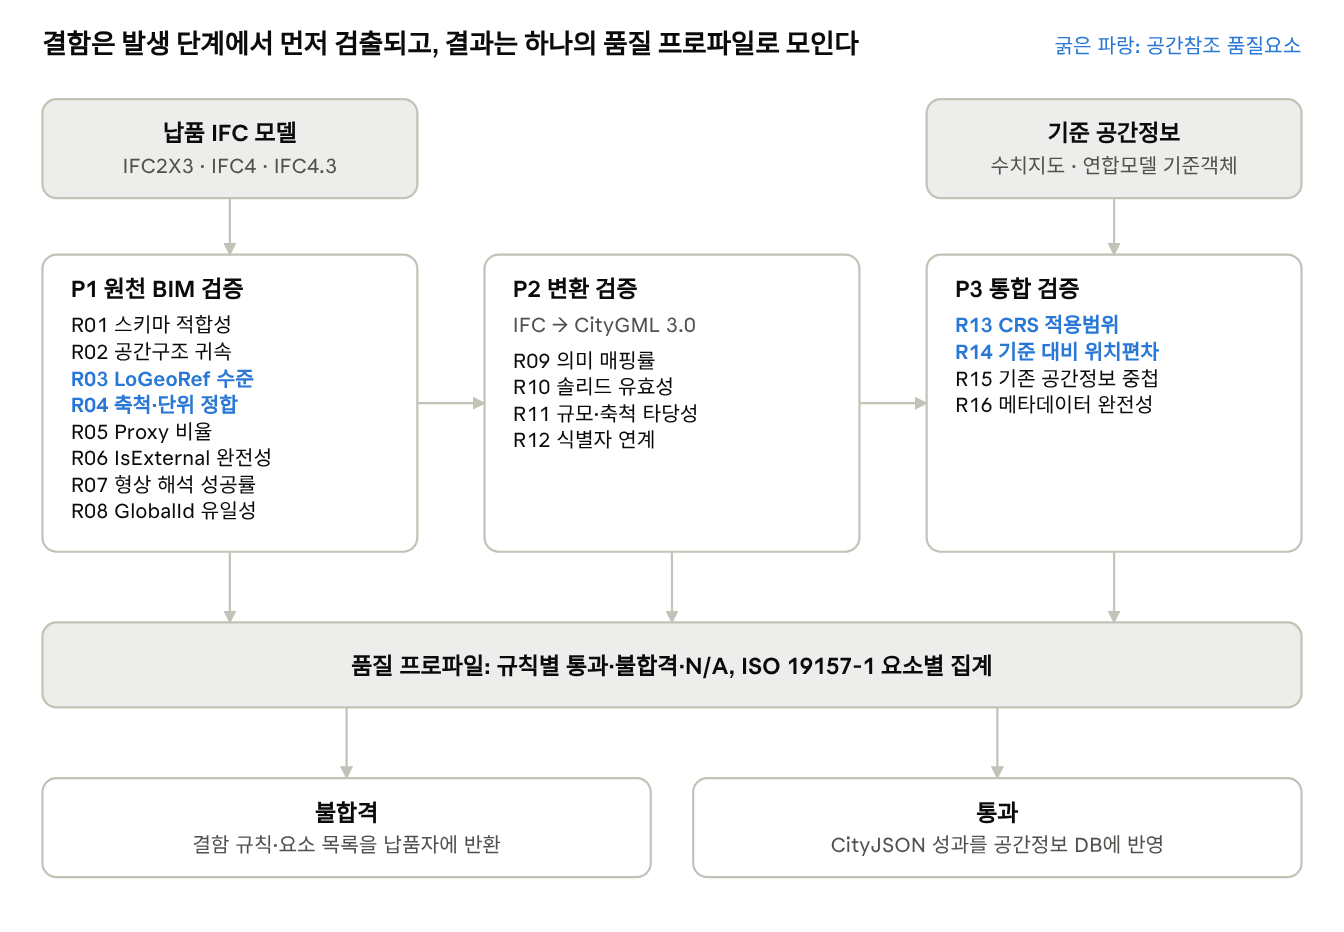
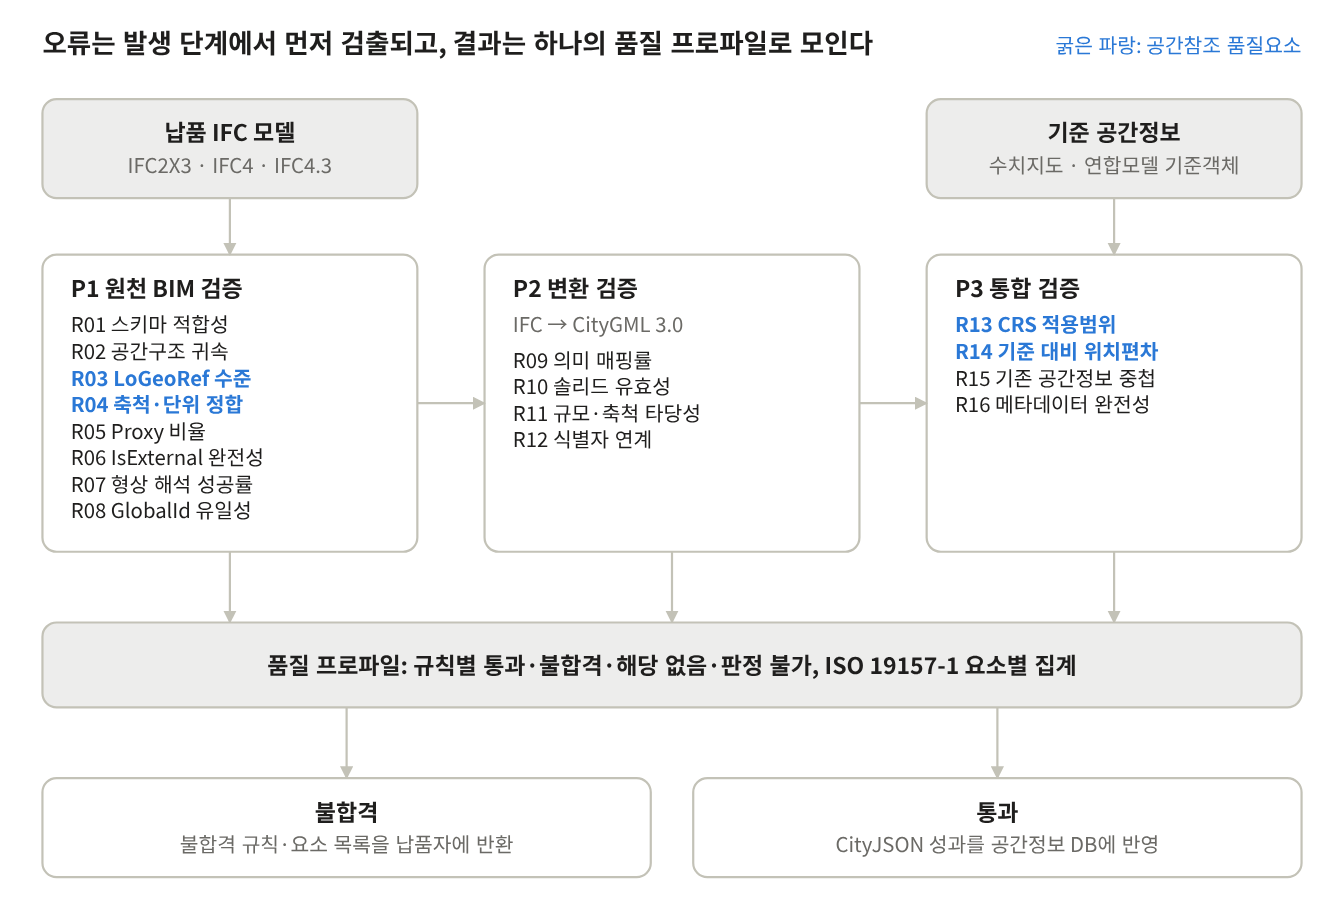
용어를 '결함 주입'에서 '오류 삽입'으로 통일하고 그림 1의 판정 상태 표기 갱신
Claude-Session: https://claude.ai/code/session_01Md6LHq71pjSQkMAt5z77e7

diff --git a/docs/viewer/index.html b/docs/viewer/index.html
@@ -175,7 +175,7 @@ footer a, .lead a { color: var(--accent); }
   </header>
   <nav class="tabs" aria-label="화면">
     <a href="#models" data-v="models">모델 검사 (E1)</a>
-    <a href="#faults" data-v="faults">결함 주입 (E2)</a>
+    <a href="#faults" data-v="faults">오류 삽입 (E2)</a>
     <a href="#georef" data-v="georef">공간참조 민감도 (E3)</a>
   </nav>
 
@@ -219,24 +219,24 @@ footer a, .lead a { color: var(--accent); }
       <div class="card">
         <div class="card-head">
           <h2>검사 단계를 늘릴수록 탐지율이 오릅니다</h2>
-          <span class="hint">B1–B4에 결함 10종을 넣은 변이 모델 131개</span>
+          <span class="hint">B1–B4에 오류 10종을 넣은 모델 131개</span>
         </div>
         <div class="bars" id="bars"></div>
       </div>
       <div class="card">
         <div class="card-head">
-          <h2>어떤 결함을 어떤 규칙이 잡았나</h2>
-          <span class="hint">칸의 숫자 = 그 규칙이 탐지한 변이 모델 수 · 행을 누르면 변이 모델 목록</span>
+          <h2>어떤 오류를 어떤 규칙이 잡았나</h2>
+          <span class="hint">칸의 숫자 = 그 규칙이 탐지한 오류 삽입 모델 수 · 행을 누르면 오류 삽입 모델 목록</span>
         </div>
         <div class="scroll"><table class="matrix fm" id="fmatrix"></table></div>
         <div class="legend">
-          <span><i style="background:var(--accent)"></i>결함이 겨냥한 주 규칙이 탐지</span>
+          <span><i style="background:var(--accent)"></i>오류가 겨냥한 주 규칙이 탐지</span>
           <span><i style="background:var(--accent-soft)"></i>다른 규칙이 연쇄 탐지</span>
           <span><i style="box-shadow:inset 0 0 0 2px var(--accent)"></i>주 규칙(탐지 못 한 경우 빈 칸)</span>
         </div>
       </div>
       <div class="card" id="mutCard">
-        <h2 id="mutTitle">변이 모델</h2>
+        <h2 id="mutTitle">오류 삽입 모델</h2>
         <div class="scroll"><table class="mt" id="mutTable"></table></div>
       </div>
     </section>
@@ -246,16 +246,16 @@ footer a, .lead a { color: var(--accent); }
       <div class="two">
         <div class="card">
           <div class="card-head">
-            <h2>좌표 결함을 넣어 보기</h2>
+            <h2>좌표 오류를 넣어 보기</h2>
             <div class="chips" id="geoChips" role="group" aria-label="모델 선택"></div>
           </div>
           <div class="ctrl"><label for="shift">원점 이동</label><input id="shift" type="range" min="0" max="2" step="0.01" value="0"><span class="num" id="shiftV"></span></div>
           <div class="ctrl"><label for="rot">진북 회전</label><input id="rot" type="range" min="0" max="2" step="0.01" value="1"><span class="num" id="rotV"></span></div>
           <div class="readout" id="readout"></div>
-          <svg id="plan" viewBox="0 0 560 420" role="img" aria-label="결함 전후 건물 평면"></svg>
+          <svg id="plan" viewBox="0 0 560 420" role="img" aria-label="오류 전후 건물 평면"></svg>
           <div class="legend">
             <span><i style="background:transparent;box-shadow:inset 0 0 0 2px var(--ink)"></i>원래 위치</span>
-            <span><i style="background:var(--fail)"></i>결함 적용 후</span>
+            <span><i style="background:var(--fail)"></i>오류 삽입 후</span>
             <span><i style="background:var(--accent)"></i>회전 중심(지도변환 원점·현장 원점)</span>
           </div>
         </div>
@@ -279,7 +279,7 @@ footer a, .lead a { color: var(--accent); }
 <script src="https://cdn.jsdelivr.net/npm/three@0.128.0/examples/js/controls/OrbitControls.js"></script>
 <script>
 "use strict";
-// ---------------------------------------------------------------- 규칙·결함 설명
+// ---------------------------------------------------------------- 규칙·오류 설명
 const RULES = {
   R01: ["IFC 스키마 적합성", "IFC 스키마 검증기로 찾은 오류 수", "오류 0건"],
   R02: ["공간구조 귀속", "층·건물 등 공간구조에 속하지 않은 부재의 비율", "0%"],
@@ -368,7 +368,7 @@ function renderStats() {
   S.e1.forEach(m => Object.values(m.rules).forEach(r => { if (r.passed != null) { n++; if (!r.passed) f++; } }));
   const muts = S.e2.mutants, det = muts.filter(m => m.det.length).length;
   $("#stats").innerHTML = `<span>모델 <b>${S.e1.length}</b>개</span><span>규칙 판정 <b>${n}</b>건 중 불합격 <b>${f}</b>건(${pct(f / n)})</span>` +
-    `<span>변이 모델 <b>${muts.length}</b>개 중 탐지 <b>${det}</b>개(${pct(det / muts.length)})</span><span>위치편차 허용 <b>τ = ${S.th.R14_tau} m</b></span>`;
+    `<span>오류 삽입 모델 <b>${muts.length}</b>개 중 탐지 <b>${det}</b>개(${pct(det / muts.length)})</span><span>위치편차 허용 <b>τ = ${S.th.R14_tau} m</b></span>`;
 }
 
 // ---------------------------------------------------------------- E1 판정표
@@ -457,7 +457,7 @@ function modelLevelText(id, M) {
     case "R04": return r.passed == null ? "IfcMapConversion이 없어 축척을 확인할 수 없습니다(판정 불가). 이 모델은 이미 R03에서 불합격입니다." : `축척/단위 = ${r.value}로 기준 안입니다.`;
     case "R11": if (r.passed == null) return esc(d); return r.value ? `기준을 벗어난 건물: ${esc(JSON.stringify(d))}` : `변환된 LoD1 건물의 높이 ${M.lod1.map(l => (l.z[1] - l.z[0]).toFixed(2) + " m").join(", ")}, 면적과 변환 전후 면적비가 모두 기준 안입니다.`;
     case "R13": return `좌표계 ${M.crs}. 적용 범위 판정: ${esc(d)}`;
-    case "R14": return r.passed == null ? "이 모델에는 비교할 기준자료가 없어 판정할 수 없습니다(판정 불가). 결함 주입 실험(E2)에서는 결함을 추가로 주입하지 않은 기준 모델의 변환 결과를 기준으로 삼아, 주입한 위치 변화를 R14가 탐지하는지 확인했습니다." : `연합 모델이 공유하는 기준객체(geo-reference)의 위치를 다른 모델들의 중앙값과 비교: 편차 ${r.value} m. ${esc(d)}`;
+    case "R14": return r.passed == null ? "이 모델에는 비교할 기준자료가 없어 판정할 수 없습니다(판정 불가). 오류 삽입 실험(E2)에서는 오류를 추가로 삽입하지 않은 기준 모델의 변환 결과를 기준으로 삼아, 삽입한 위치 변화를 R14가 탐지하는지 확인했습니다." : `연합 모델이 공유하는 기준객체(geo-reference)의 위치를 다른 모델들의 중앙값과 비교: 편차 ${r.value} m. ${esc(d)}`;
     case "R15": return r.passed == null ? esc(d) + "." : `같은 현장의 도로·철도 레이어(Infra-Road, Infra-Rail)와 겹치는 면적 ${r.value} m².`;
     case "R16": {
       const names = ["작성 시각", "작성 소프트웨어", "작성자/기관", "좌표계", "길이 단위"];
@@ -649,9 +649,9 @@ function renderE2() {
   const conf = S.e2.by_conf, keys = Object.keys(conf);
   const lab = { "B0 스키마 검증(R01)": "스키마 검증만(R01)", "P1 단독": "P1 원천 BIM", "P1+P2": "P1 + P2 변환", "P1+P2+P3(제안)": "P1 + P2 + P3 (제안)" };
   $("#bars").innerHTML = keys.map((k, i) => { const [d, n] = conf[k]; return `<div class="barrow ${i === keys.length - 1 ? "best" : ""}"><span>${lab[k] || k}</span><div class="track"><div class="fill" style="width:${(d / n * 100).toFixed(1)}%"></div></div><span class="num">${d}/${n} · ${pct(d / n)}</span></div>`; }).join("") +
-    `<p class="hint">P3 통합 검증을 더하면 탐지율이 ${pct((conf[keys[3]][0] - conf[keys[2]][0]) / conf[keys[3]][1])}p 오릅니다. 원점 이동·회전처럼 원본 파일 안에서는 정상으로 보이는 좌표 결함은 지도 위에서 기준자료와 비교해야만 드러납니다.</p>`;
+    `<p class="hint">P3 통합 검증을 더하면 탐지율이 ${pct((conf[keys[3]][0] - conf[keys[2]][0]) / conf[keys[3]][1])}p 오릅니다. 원점 이동·회전처럼 원본 파일 안에서는 정상으로 보이는 좌표 오류는 지도 위에서 기준자료와 비교해야만 드러납니다.</p>`;
   const ids = STAGES.flatMap(s => s[1]);
-  let h = `<thead><tr class="stage"><th class="left" rowspan="2">결함</th><th rowspan="2">탐지</th>` + STAGES.map(([n, r], i) => `<th colspan="${r.length}" class="${i ? "sep-l" : ""}">${n.split(" ")[0]}</th>`).join("") + `</tr><tr>` +
+  let h = `<thead><tr class="stage"><th class="left" rowspan="2">오류</th><th rowspan="2">탐지</th>` + STAGES.map(([n, r], i) => `<th colspan="${r.length}" class="${i ? "sep-l" : ""}">${n.split(" ")[0]}</th>`).join("") + `</tr><tr>` +
     ids.map(id => `<th class="${["R09","R13"].includes(id) ? "sep-l" : ""}" title="${esc(RULES[id][0])}">${id.slice(1)}</th>`).join("") + `</tr></thead><tbody>`;
   Object.entries(FAULTS).forEach(([k, f]) => {
     const t = S.e2.by_type[k]; if (!t) return;
@@ -680,8 +680,8 @@ function renderMutants() {
   const k = state.mut, f = FAULTS[k], t = S.e2.by_type[k], ex = new Set(S.e2.expected[k]);
   document.querySelectorAll("#fmatrix tr[data-m]").forEach(tr => tr.classList.toggle("sel", tr.dataset.m === k));
   const list = S.e2.mutants.filter(m => m.m === k).sort((a, b) => a.bid.localeCompare(b.bid) || (a.rep ?? 0) - (b.rep ?? 0));
-  $("#mutTitle").innerHTML = `${f[0]} ${f[1]} · 변이 모델 ${list.length}개 중 ${t.det}개 탐지 <span class="hint">— ${f[2]}. 주 규칙: ${[...ex].join(", ")}</span>`;
-  $("#mutTable").innerHTML = `<thead><tr><th>기준 모델</th><th>회차</th><th>넣은 결함</th><th>탐지한 규칙</th><th>결과</th></tr></thead><tbody>` +
+  $("#mutTitle").innerHTML = `${f[0]} ${f[1]} · 오류 삽입 모델 ${list.length}개 중 ${t.det}개 탐지 <span class="hint">— ${f[2]}. 주 규칙: ${[...ex].join(", ")}</span>`;
+  $("#mutTable").innerHTML = `<thead><tr><th>기준 모델</th><th>회차</th><th>넣은 오류</th><th>탐지한 규칙</th><th>결과</th></tr></thead><tbody>` +
     list.map(m => `<tr><td><span class="bid">${m.bid}</span>${MODELS[m.bid][1]}</td><td class="num">${m.rep ?? ""}</td><td>${esc(logText(m))}</td>` +
       `<td>${m.det.length ? m.det.map(r => `<span class="tag ${ex.has(r) ? "main" : ""}" title="${esc(RULES[r][0])}">${r}</span>`).join("") : "–"}</td>` +
       `<td><span class="pill ${m.det.length ? "P" : "F"}">${m.det.length ? "탐지" : "놓침"}</span></td></tr>`).join("") + `</tbody>` +

diff --git a/viewer_export.py b/viewer_export.py
@@ -3,7 +3,7 @@
 e1_analysis.py, e2_mutation.py, e3_sweep.py를 실행한 뒤 실행한다.
   python viewer_export.py  →  docs/viewer/data/{summary,B1,B2,B3,B4}.json
 
-- summary.json : 7개 모델 규칙별 판정(E1), 결함×규칙 탐지 행렬과 변이 모델 목록(E2), 민감도(E3), 대표 4종의 평면 윤곽
+- summary.json : 7개 모델 규칙별 판정(E1), 오류×규칙 탐지 행렬과 오류 삽입 모델 목록(E2), 민감도(E3), 대표 4종의 평면 윤곽
 - B?.json      : 대표 모델의 부재별 형상(지도좌표, cm 정수, base64)과 규칙별 표시 정보
 """
 import base64
@@ -100,7 +100,7 @@ for f, r in E1.items():
                    crs=r["crs"], classes=r["classes"], rules=r["results"],
                    bid=next((b for b, p in BASES.items() if p == f), None)))
 
-# ---- E2: 결함 × 규칙
+# ---- E2: 오류 × 규칙
 clean = {r["bid"]: r["res"] for r in E2 if r["mtype"] == "CLEAN" and "res" in r}
 muts = []
 mat = collections.defaultdict(collections.Counter)
